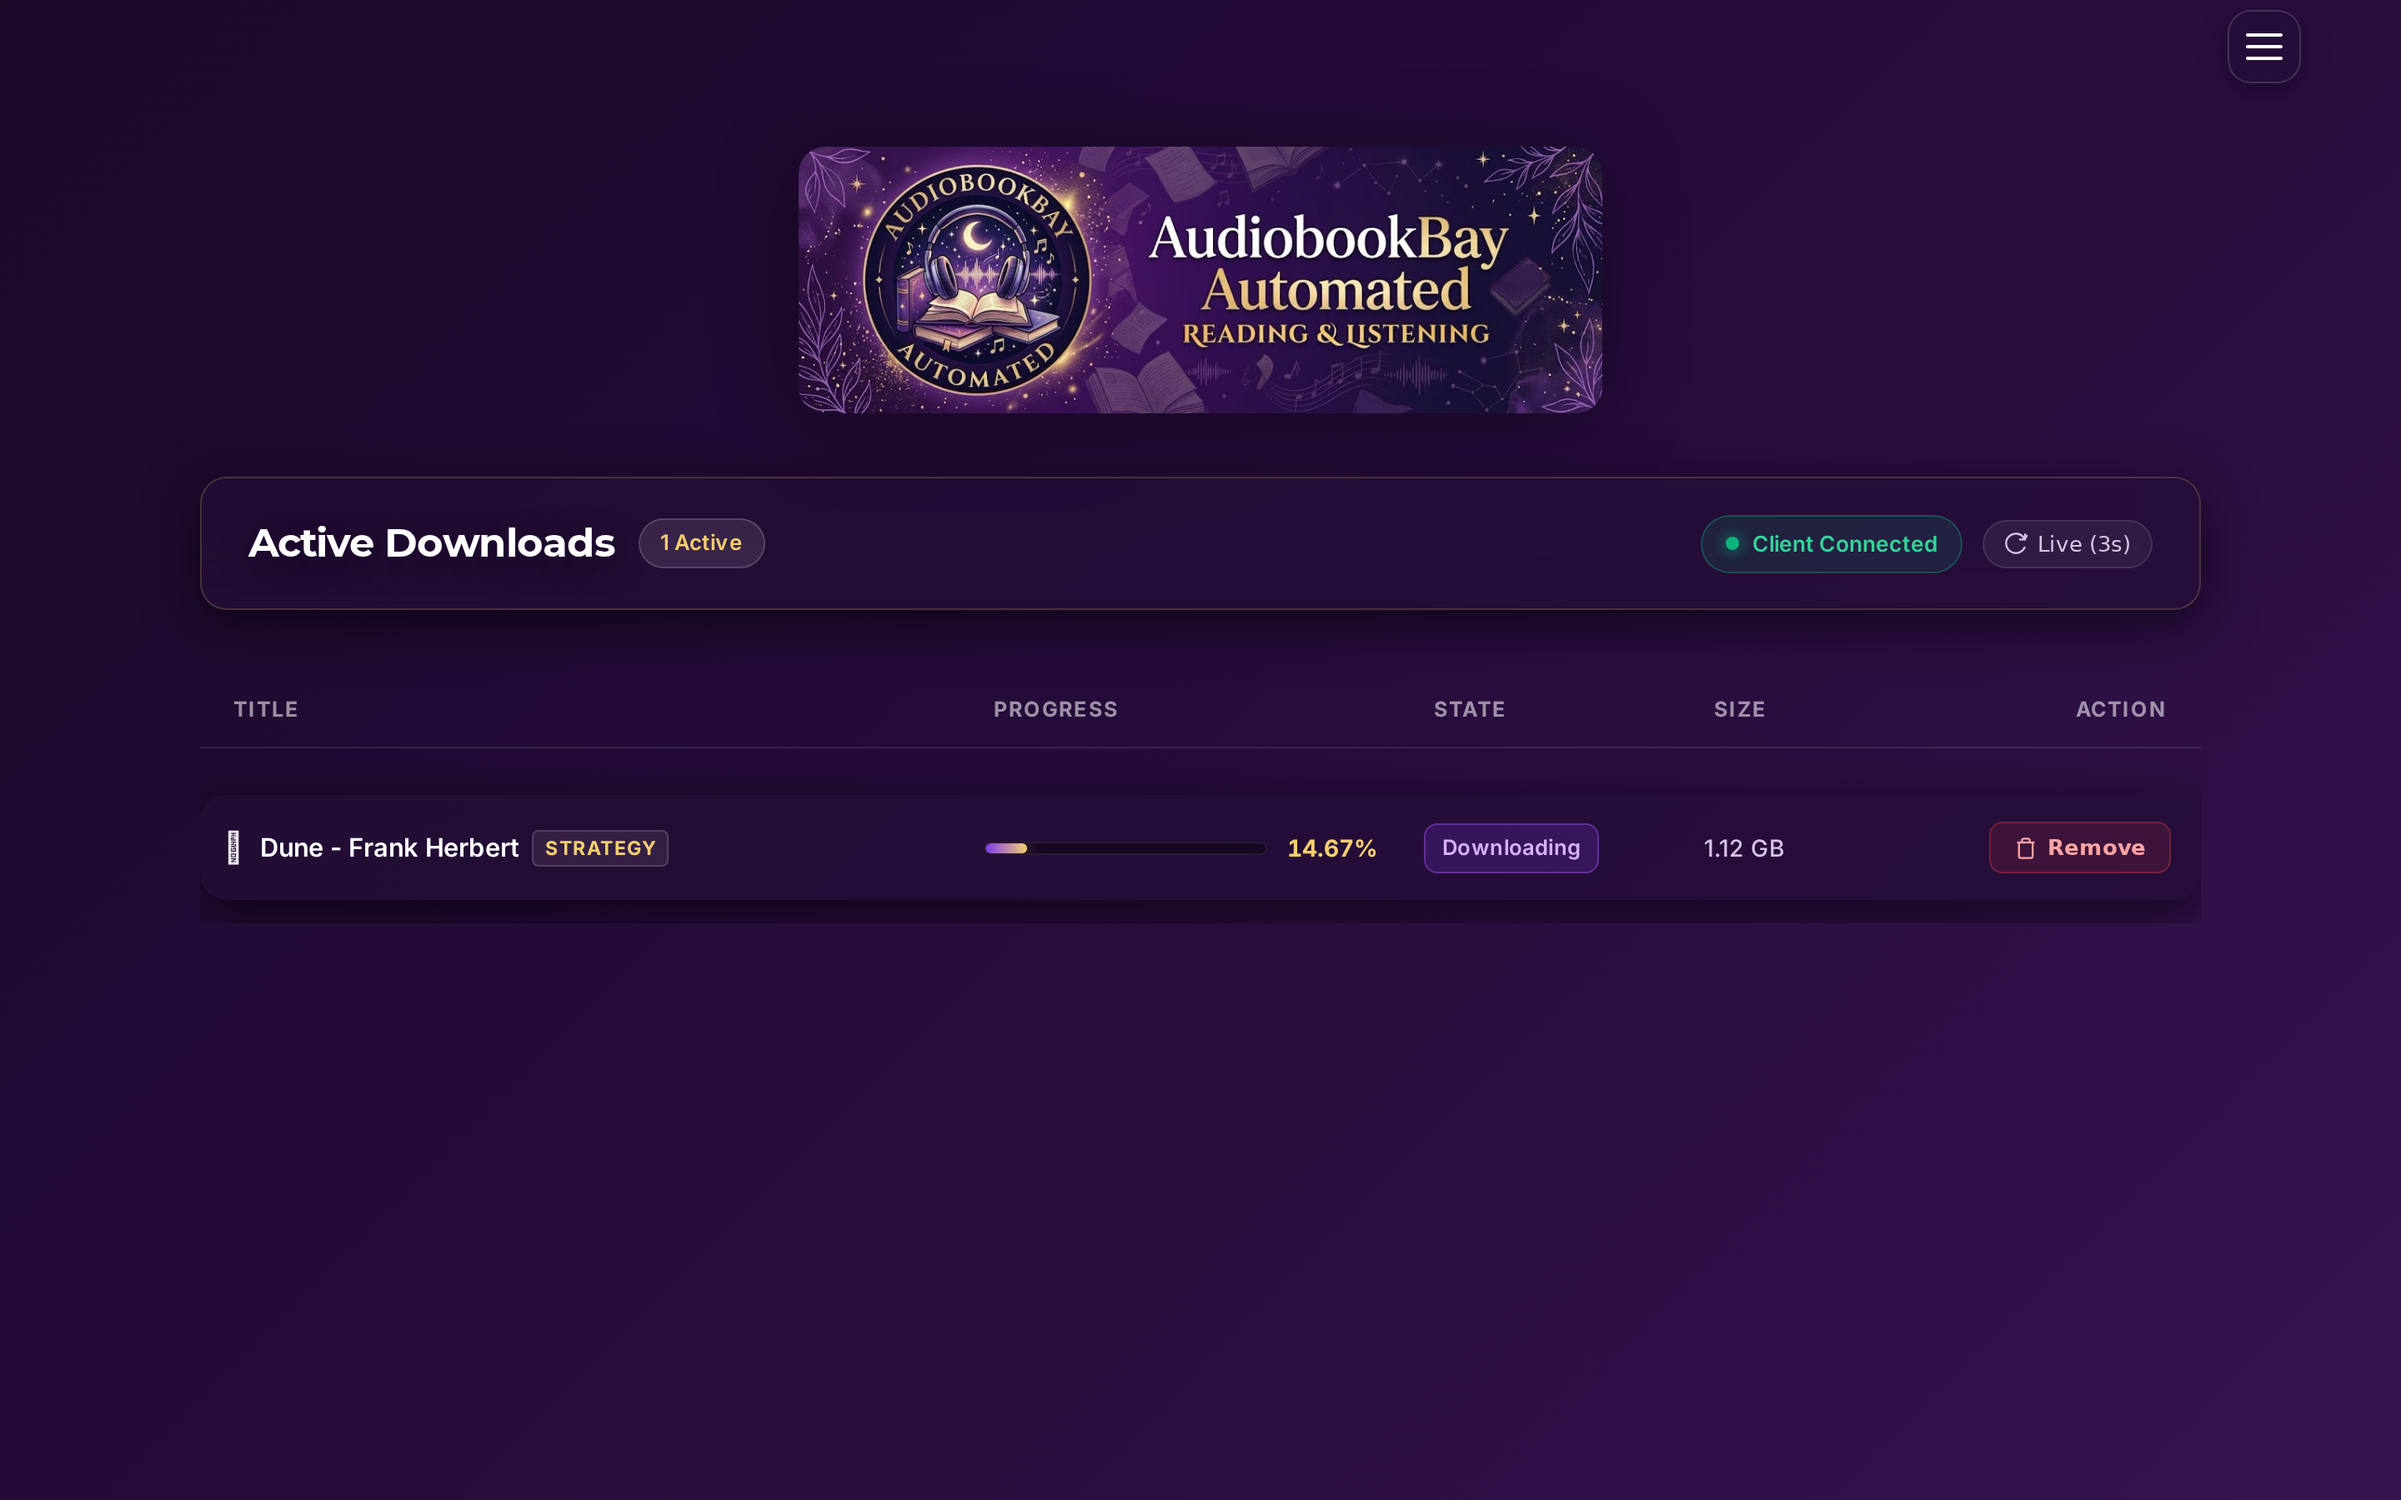
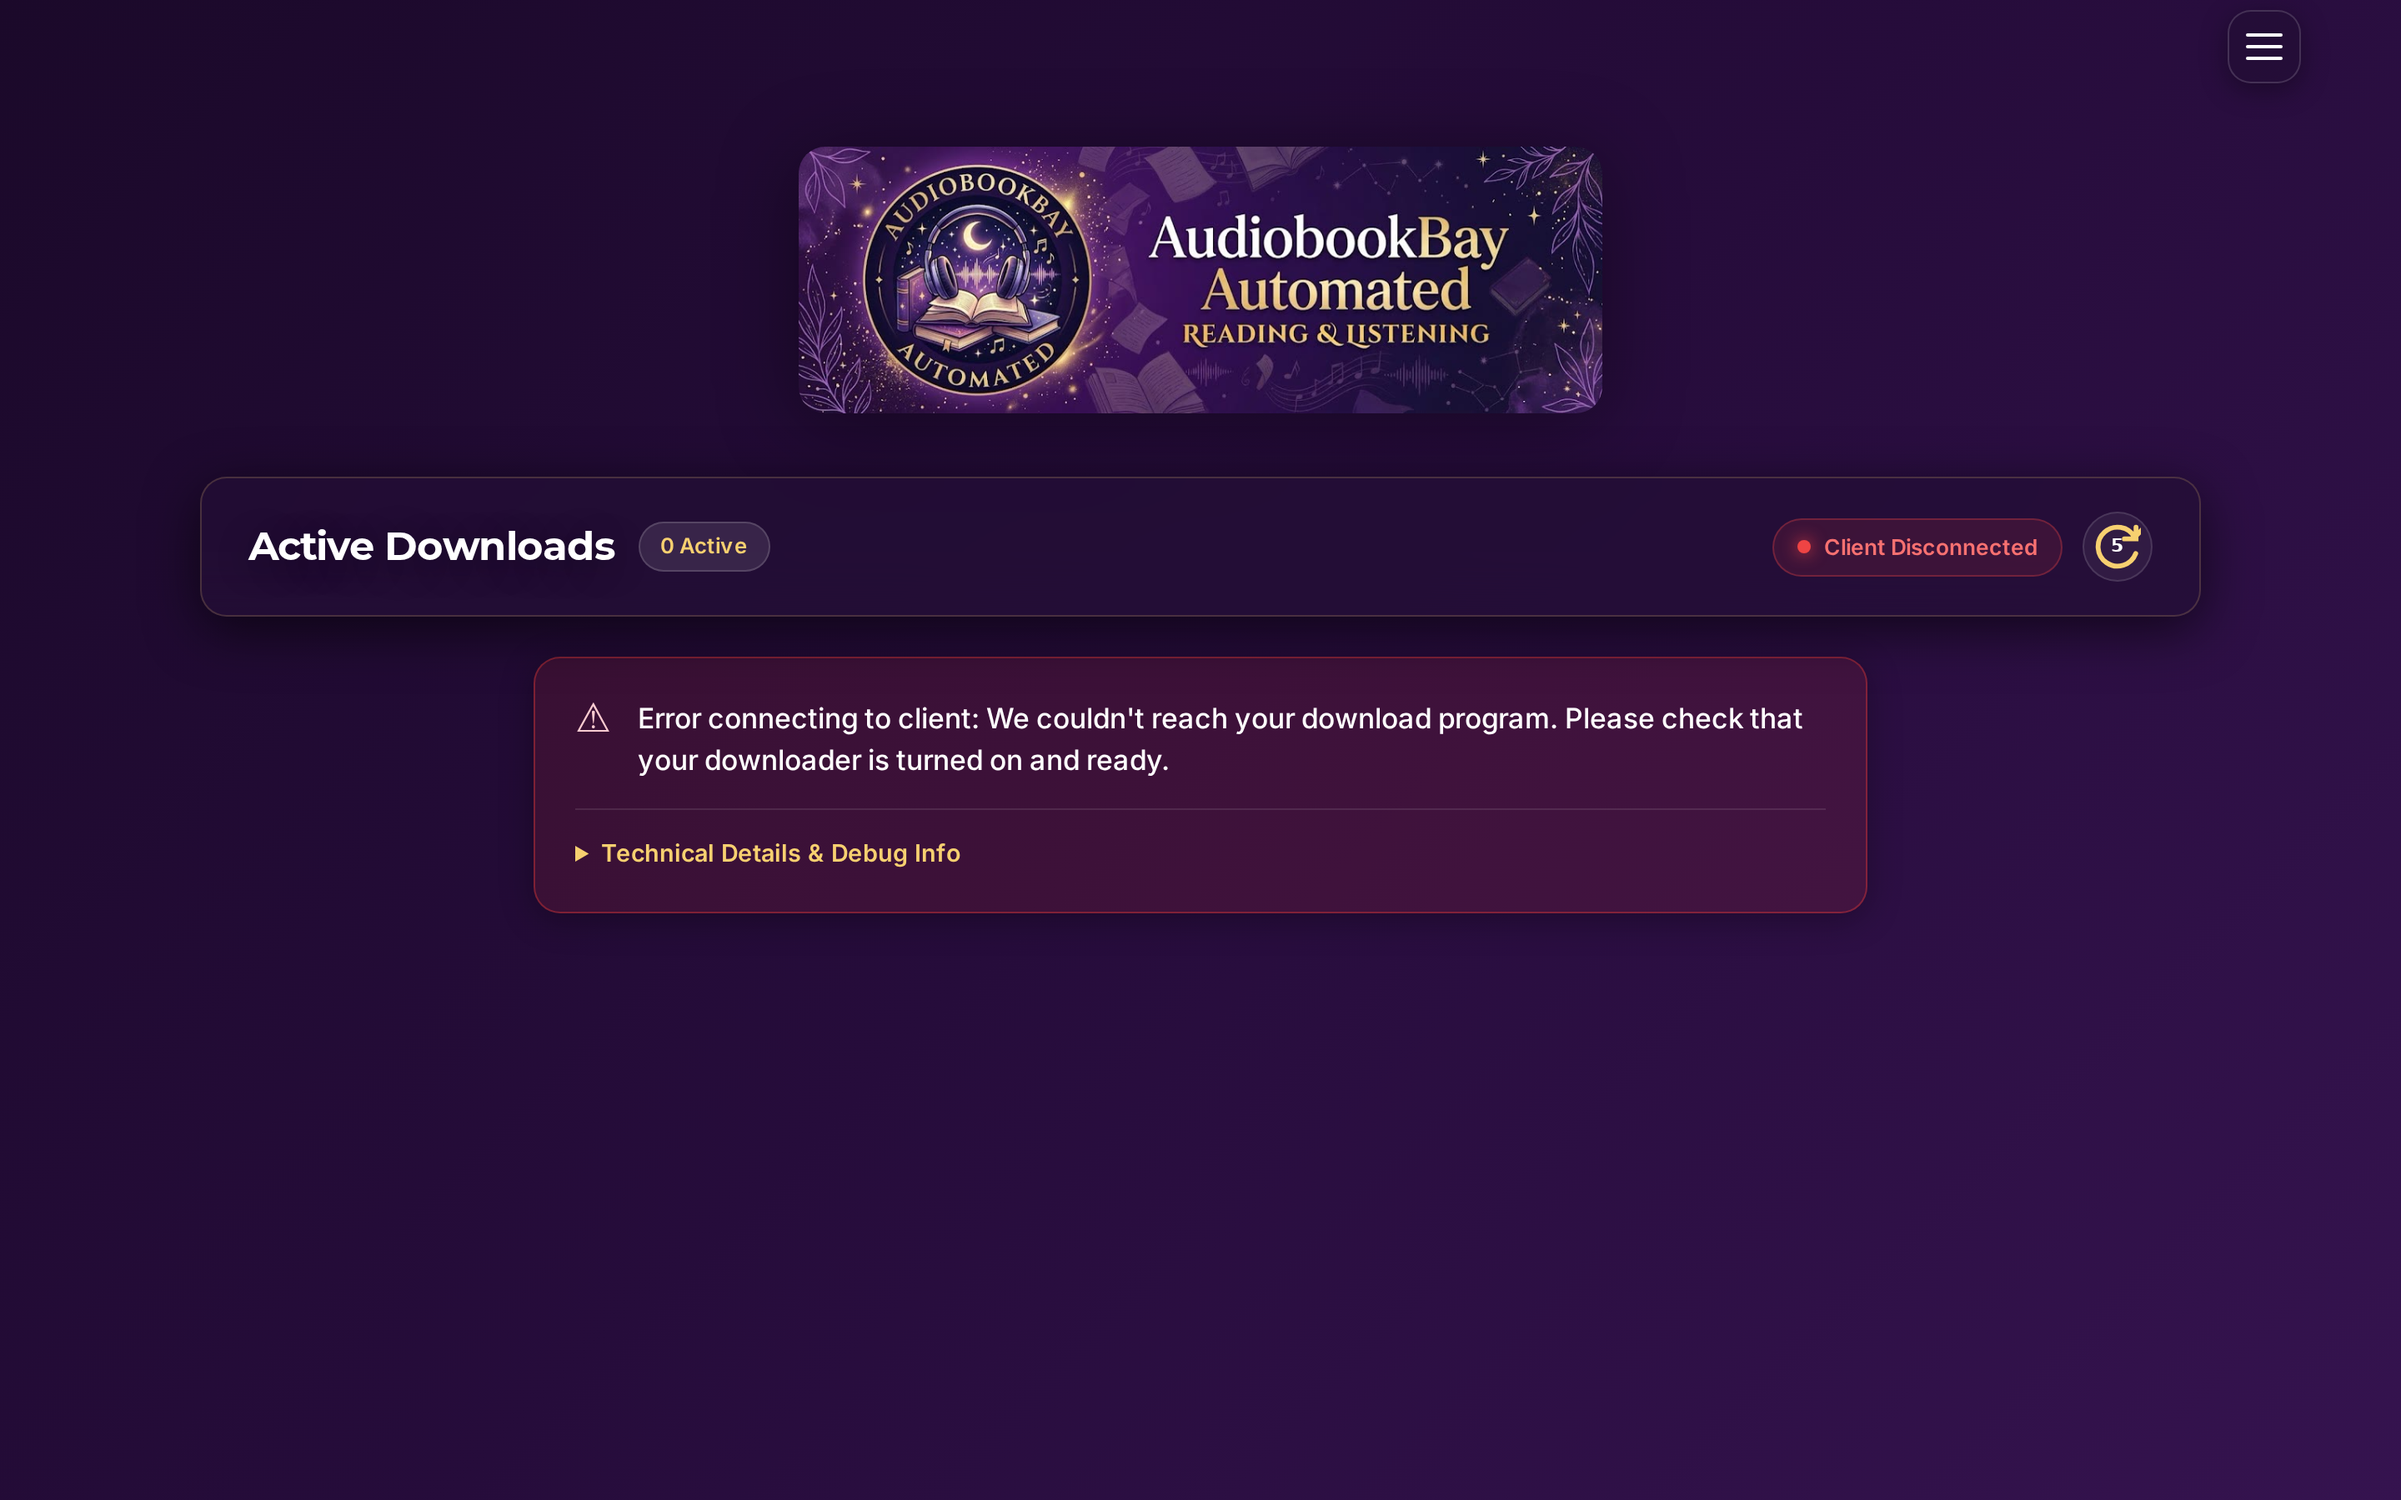
feat(ui): redesign status poll indicator as animated circular dial with embedded countdown

diff --git a/audiobook_automated/static/js/status.js b/audiobook_automated/static/js/status.js
@@ -19,7 +19,7 @@ document.addEventListener("DOMContentLoaded", () => {
     const countBadge = document.getElementById("status-count-badge");
     const clientPill = document.getElementById("status-client-pill");
     const clientPillText = clientPill ? clientPill.querySelector(".client-pill-text") : null;
-    const pollText = pollIndicator ? pollIndicator.querySelector(".poll-text") : null;
+    const pollCountdownNum = document.getElementById("poll-countdown-num");
 
     let countdown = 5;
     let isFetching = false;
@@ -29,7 +29,7 @@ document.addEventListener("DOMContentLoaded", () => {
         if (isFetching) return;
         isFetching = true;
         countdown = 5;
-        if (pollText) pollText.textContent = "Refreshing...";
+        if (pollCountdownNum) pollCountdownNum.textContent = "↻";
         try {
             if (pollIndicator) pollIndicator.classList.add("polling");
             const response = await fetch("/status?json=1");
@@ -74,7 +74,7 @@ document.addEventListener("DOMContentLoaded", () => {
         } finally {
             isFetching = false;
             countdown = 5;
-            if (pollText) pollText.textContent = `Live (${countdown}s)`;
+            if (pollCountdownNum) pollCountdownNum.textContent = "5";
             if (pollIndicator) {
                 setTimeout(() => pollIndicator.classList.remove("polling"), 400);
             }
@@ -87,8 +87,8 @@ document.addEventListener("DOMContentLoaded", () => {
             countdown -= 1;
             if (countdown <= 0) {
                 pollStatus();
-            } else if (pollText) {
-                pollText.textContent = `Live (${countdown}s)`;
+            } else if (pollCountdownNum) {
+                pollCountdownNum.textContent = String(countdown);
             }
         }
     }, 1000);

diff --git a/audiobook_automated/static/css/status.css b/audiobook_automated/static/css/status.css
@@ -121,12 +121,11 @@
 .status-poll-indicator {
     display: inline-flex;
     align-items: center;
-    gap: 6px;
-    padding: 6px 12px;
+    justify-content: center;
+    padding: 6px;
     background: rgba(255, 255, 255, 0.06);
-    border: 1px solid rgba(255, 255, 255, 0.1);
+    border: 1px solid rgba(255, 255, 255, 0.12);
     border-radius: 999px;
-    font-size: 0.8rem;
     color: var(--text-muted, rgba(255, 255, 255, 0.7));
     cursor: pointer;
     user-select: none;
@@ -134,24 +133,44 @@
 }
 
 .status-poll-indicator:hover {
-    background: rgba(255, 255, 255, 0.12);
+    background: rgba(255, 255, 255, 0.14);
     color: var(--text-main, #ffffff);
-    border-color: rgba(255, 255, 255, 0.2);
+    border-color: rgba(255, 255, 255, 0.25);
+    transform: scale(1.05);
 }
 
 .status-poll-indicator:active {
-    transform: scale(0.96);
+    transform: scale(0.95);
+}
+
+.poll-dial-wrap {
+    position: relative;
+    width: 28px;
+    height: 28px;
+    display: flex;
+    align-items: center;
+    justify-content: center;
 }
 
 .poll-icon {
-    width: 14px;
-    height: 14px;
-    color: var(--text-muted, rgba(255, 255, 255, 0.7));
-    transition: transform 0.5s ease;
+    width: 28px;
+    height: 28px;
+    color: var(--accent-color, #f7d070);
+    transition: transform 0.3s ease;
+}
+
+.poll-countdown-num {
+    position: absolute;
+    font-size: 0.68rem;
+    font-weight: 800;
+    line-height: 1;
+    color: var(--text-main, #ffffff);
+    font-family: inherit;
+    pointer-events: none;
 }
 
 .status-poll-indicator.polling .poll-icon {
-    animation: spin-poll 0.8s linear infinite;
+    animation: spin-poll 0.7s cubic-bezier(0.4, 0, 0.2, 1) infinite;
 }
 
 @keyframes spin-poll {

diff --git a/audiobook_automated/templates/status.html b/audiobook_automated/templates/status.html
@@ -26,17 +26,20 @@
                 title="Click to refresh status immediately (auto-refreshes every 5s)"
                 aria-label="Refresh status"
             >
-                <svg
-                    class="poll-icon"
-                    viewBox="0 0 24 24"
-                    fill="none"
-                    stroke="currentColor"
-                    stroke-width="2"
-                    aria-hidden="true"
-                >
-                    <path d="M21.5 2v6h-6M21.34 15.57a10 10 0 1 1-.57-8.38l5.67-5.67" />
-                </svg>
-                <span class="poll-text">Refresh (5s)</span>
+                <div class="poll-dial-wrap">
+                    <svg
+                        class="poll-icon poll-spinner-ring"
+                        viewBox="0 0 24 24"
+                        fill="none"
+                        stroke="currentColor"
+                        stroke-width="2.5"
+                        stroke-linecap="round"
+                        aria-hidden="true"
+                    >
+                        <path d="M21.5 2v6h-6M21.34 15.57a10 10 0 1 1-.57-8.38l5.67-5.67" />
+                    </svg>
+                    <span class="poll-countdown-num" id="poll-countdown-num">5</span>
+                </div>
             </button>
         </div>
     </div>
